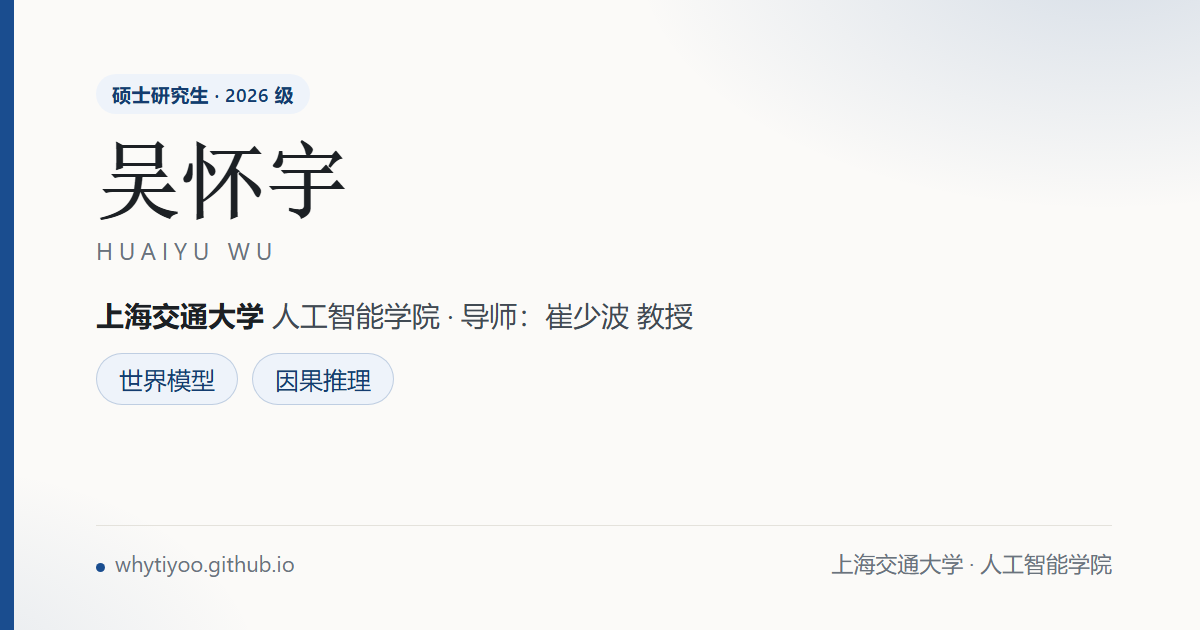
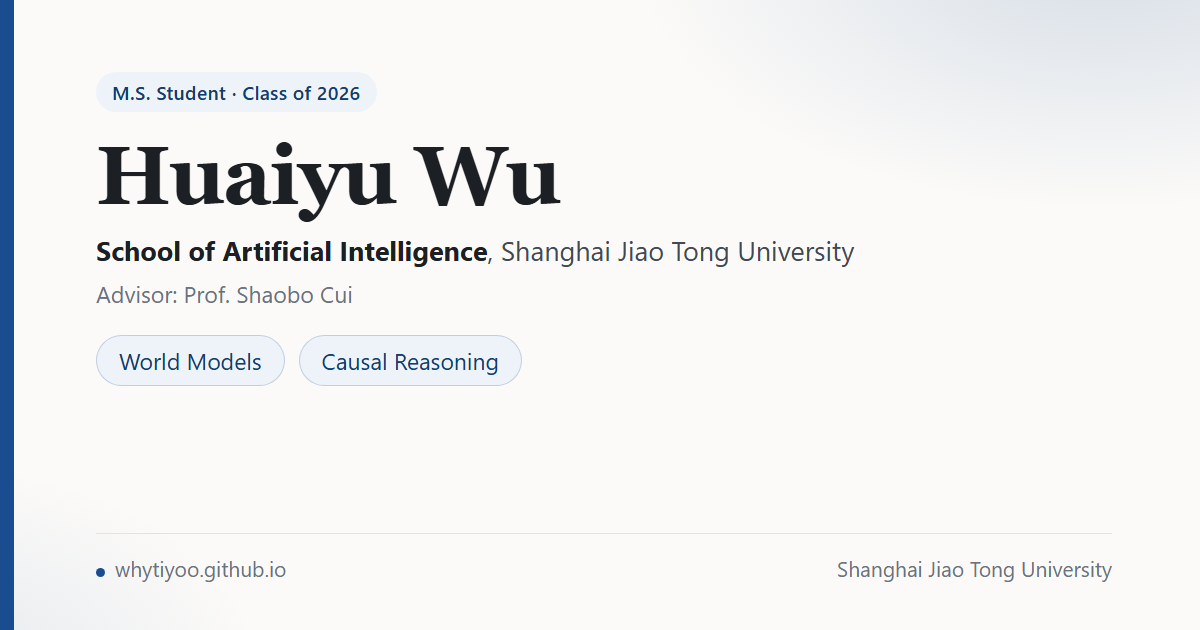
Convert all homepage content to English (lang=en, English meta/JSON-LD, English share cover)

diff --git a/index.html b/index.html
@@ -1,84 +1,80 @@
 <!DOCTYPE html>
-<html lang="zh-CN" data-theme="light">
+<html lang="en" data-theme="light">
 <head>
 <meta charset="utf-8">
 <meta name="viewport" content="width=device-width, initial-scale=1">
-<title>吴怀宇 · 个人主页 | 上海交通大学人工智能学院</title>
+<title>Huaiyu Wu · Homepage | School of Artificial Intelligence, SJTU</title>
 
-<meta name="description" content="吴怀宇，上海交通大学人工智能学院硕士研究生（2026 级），导师崔少波教授，研究方向为世界模型与因果推理。">
+<meta name="description" content="Huaiyu Wu is an M.S. student at the School of Artificial Intelligence, Shanghai Jiao Tong University, advised by Prof. Shaobo Cui. His research focuses on world models and causal reasoning.">
 <link rel="canonical" href="https://whytiyoo.github.io/">
 <meta property="og:type" content="profile">
-<meta property="og:title" content="吴怀宇 · 个人主页">
-<meta property="og:description" content="上海交通大学人工智能学院硕士研究生 · 世界模型与因果推理">
+<meta property="og:title" content="Huaiyu Wu · Homepage">
+<meta property="og:description" content="M.S. Student, School of Artificial Intelligence, Shanghai Jiao Tong University · World Models & Causal Reasoning">
 <meta property="og:url" content="https://whytiyoo.github.io/">
 <meta property="og:image" content="https://whytiyoo.github.io/assets/img/og-cover.png">
 <meta property="og:image:width" content="1200">
 <meta property="og:image:height" content="630">
-<meta property="og:locale" content="zh_CN">
+<meta property="og:locale" content="en_US">
 <meta name="twitter:card" content="summary_large_image">
-<meta name="twitter:title" content="吴怀宇 · 个人主页">
-<meta name="twitter:description" content="上海交通大学人工智能学院硕士研究生 · 世界模型与因果推理">
+<meta name="twitter:title" content="Huaiyu Wu · Homepage">
+<meta name="twitter:description" content="M.S. Student, School of Artificial Intelligence, Shanghai Jiao Tong University · World Models & Causal Reasoning">
 <meta name="twitter:image" content="https://whytiyoo.github.io/assets/img/og-cover.png">
 <meta name="theme-color" content="#ffffff">
 <link rel="icon" href="assets/img/favicon.svg" type="image/svg+xml">
 <link rel="stylesheet" href="assets/css/style.css">
 
-<!-- SEO：机器可读的个人信息（schema.org Person） -->
+<!-- SEO: machine-readable personal information (schema.org Person) -->
 <script type="application/ld+json">
 {
   "@context": "https://schema.org",
   "@type": "Person",
-  "name": "吴怀宇",
-  "alternateName": "Huaiyu Wu",
-  "jobTitle": "硕士研究生",
-  "affiliation": { "@type": "CollegeOrUniversity", "name": "上海交通大学人工智能学院" },
-  "alumniOf": { "@type": "CollegeOrUniversity", "name": "清华大学" },
+  "name": "Huaiyu Wu",
+  "jobTitle": "M.S. Student",
+  "affiliation": { "@type": "CollegeOrUniversity", "name": "School of Artificial Intelligence, Shanghai Jiao Tong University" },
+  "alumniOf": { "@type": "CollegeOrUniversity", "name": "Tsinghua University" },
   "url": "https://whytiyoo.github.io/",
   "image": "https://whytiyoo.github.io/assets/img/og-cover.png",
   "sameAs": [
     "https://github.com/whytiyoo"
   ],
-  "knowsAbout": ["世界模型", "因果推理"]
+  "knowsAbout": ["World Models", "Causal Reasoning"]
 }
 </script>
 </head>
 <body>
-<a class="skip-link" href="#main">跳到主要内容</a>
+<a class="skip-link" href="#main">Skip to main content</a>
 
 <!-- =========================================================================
-     内容维护说明
-     · 已填写真实信息：姓名、身份、导师、研究方向、教育经历、GitHub 链接。
-     · 按站点主人要求，**刻意不放**简历下载与邮箱：页面任何位置都没有 CV 按钮与 mailto 链接，
-       JSON-LD 里也没有 email 字段。日后想加回来，见本文件里对应位置的注释。
+     内容维护说明（注释保持中文，方便你自己维护；页面上不显示）
+     · 页面全部内容已改为英文（lang="en"）。
      · 仍需你替换的地方（全文搜索「待替换」）：
-         1. 头像   assets/img/avatar.svg  → 换成你的照片（正方形，建议 ≥ 400×400）
-         2. 「关于我」第二段：目前只写了研究方向，等你有在研工作/复现/实习时补一段
-     · 以下栏目目前没有内容，代码以注释形式保留在下方，有内容时取消注释，
-       并在顶部导航 .nav__menu 里同步加一行链接：
-         最新动态（News）、论文发表（Publications）、科研与开源项目（Projects）、
-         教学与服务（Teaching）、荣誉奖励（Awards）
-     · 社交链接：目前只有 GitHub。日后有 Google Scholar / ORCID 时，
+         1. Portrait   assets/img/avatar.svg → 换成你的照片（正方形，建议 ≥ 400×400）
+         2. About 第二段：目前只写了研究方向，等你有在研工作/复现/实习时补一段
+     · 按你的要求，页面**刻意不放**简历下载与邮箱（无 mailto、结构化数据里也没有 email）。
+     · 以下栏目的代码以注释形式保留，有内容时取消注释，并在顶部导航 .nav__menu 里加一行：
+         News / Publications / Projects / Teaching & Service / Awards
+     · 社交链接目前只有 GitHub。日后有 Google Scholar / ORCID 时，
        在 .hero__links 里加 <li>，并同步补进上面的 JSON-LD sameAs 数组。
      ========================================================================= -->
 
 <header class="site-header">
-  <nav class="nav" aria-label="主导航">
-    <a class="nav__brand" href="#top">吴怀宇</a>
+  <nav class="nav" aria-label="Main navigation">
+    <a class="nav__brand" href="#top">Huaiyu Wu</a>
     <button class="nav__toggle" type="button" aria-expanded="false" aria-controls="nav-menu">
-      <span class="sr-only">展开导航菜单</span>
+      <span class="sr-only">Open navigation menu</span>
       <svg viewBox="0 0 24 24" width="22" height="22" aria-hidden="true" fill="none" stroke="currentColor" stroke-width="1.8" stroke-linecap="round">
         <path d="M4 7h16M4 12h16M4 17h16"/>
       </svg>
     </button>
     <ul class="nav__menu" id="nav-menu">
-      <li><a href="#about">关于</a></li>
-      <li><a href="#education">教育</a></li>
-      <li><a href="#contact">联系</a></li>
-      <!-- 启用「最新动态」后加：<li><a href="#news">动态</a></li> -->
-      <!-- 启用「论文发表」后加：<li><a href="#publications">论文</a></li> -->
-      <!-- 启用「项目」后加：<li><a href="#projects">项目</a></li> -->
+      <li><a href="#about">About</a></li>
+      <li><a href="#education">Education</a></li>
+      <li><a href="#contact">Contact</a></li>
+      <!-- 启用「News」后加：<li><a href="#news">News</a></li> -->
+      <!-- 启用「Publications」后加：<li><a href="#publications">Publications</a></li> -->
+      <!-- 启用「Projects」后加：<li><a href="#projects">Projects</a></li> -->
       <li>
-        <button class="theme-toggle" type="button" id="theme-toggle" aria-label="切换深色模式">
+        <button class="theme-toggle" type="button" id="theme-toggle" aria-label="Toggle dark mode">
           <svg class="theme-toggle__sun" viewBox="0 0 24 24" width="18" height="18" aria-hidden="true" fill="none" stroke="currentColor" stroke-width="1.8" stroke-linecap="round">
             <circle cx="12" cy="12" r="4"/><path d="M12 2v2M12 20v2M2 12h2M20 12h2M5 5l1.5 1.5M17.5 17.5L19 19M19 5l-1.5 1.5M6.5 17.5L5 19"/>
           </svg>
@@ -93,65 +89,70 @@
 
 <main id="main">
 
-  <!-- ============================ 首屏 ============================ -->
+  <!-- ============================ Hero ============================ -->
   <section class="hero" id="top" aria-labelledby="hero-name">
-    <!-- ✏ 待替换：换成你的照片（建议正方形 ≥ 400×400），改这里 src 即可 -->
-    <img class="hero__avatar" src="assets/img/avatar.svg" alt="吴怀宇的头像" width="176" height="176">
+    <!-- ✏ 待替换：replace with your photo (square, ≥ 400×400); just change the src -->
+    <img class="hero__avatar" src="assets/img/avatar.svg" alt="Portrait of Huaiyu Wu" width="176" height="176">
     <div class="hero__body">
-      <h1 class="hero__name" id="hero-name">吴怀宇</h1>
-      <p class="hero__name-en">Huaiyu Wu</p>
+      <h1 class="hero__name" id="hero-name">Huaiyu Wu</h1>
       <p class="hero__role">
-        硕士研究生 · 上海交通大学人工智能学院
-        <span class="hero__role-note">2026 级 · 导师：崔少波 教授</span>
+        M.S. Student · School of Artificial Intelligence, Shanghai Jiao Tong University
+        <span class="hero__role-note">Class of 2026 · Advisor: Prof. Shaobo Cui</span>
       </p>
       <p class="hero__tagline">
-        研究<strong>世界模型</strong>与<strong>因果推理</strong>：
-        关注模型如何学习环境的动态与预测，以及如何从干预与反事实中识别因果结构。
+        I work on <strong>world models</strong> and <strong>causal reasoning</strong>:
+        how a model learns the dynamics of an environment to make useful predictions,
+        and how interventions and counterfactuals reveal causal structure beyond correlation.
       </p>
-      <ul class="hero__links" aria-label="常用链接">
+      <ul class="hero__links" aria-label="Primary links">
         <li><a href="https://github.com/whytiyoo">GitHub</a></li>
-        <!-- 有 Google Scholar / ORCID 后按同样格式加一行，例如：
+        <!-- Add Google Scholar / ORCID the same way once available, e.g.:
              <li><a href="https://scholar.google.com/citations?user=XXXXXXXX">Google Scholar</a></li> -->
       </ul>
     </div>
   </section>
 
-  <!-- ============================ 关于我 ============================ -->
+  <!-- ============================ About ============================ -->
   <section class="section" id="about" aria-labelledby="about-title">
-    <h2 class="section__title" id="about-title">关于我</h2>
+    <h2 class="section__title" id="about-title">About</h2>
 
     <p>
-      我是<strong>吴怀宇</strong>，上海交通大学人工智能学院 2026 级硕士研究生，导师为
-      <strong>崔少波 教授</strong>。本科毕业于清华大学，获数理基础科学专业与工程物理专业
-      <strong>双学位</strong>。目前的研究兴趣集中在<strong>世界模型</strong>与<strong>因果推理</strong>。
+      I am <strong>Huaiyu Wu</strong>, an M.S. student (Class of 2026) at the
+      <strong>School of Artificial Intelligence, Shanghai Jiao Tong University</strong>,
+      advised by <strong>Prof. Shaobo Cui</strong>. I received my bachelor's degrees from
+      Tsinghua University, where I completed a dual-degree program in Mathematical &amp;
+      Physical Basic Sciences and Engineering Physics. My research interests centre on
+      <strong>world models</strong> and <strong>causal reasoning</strong>.
     </p>
     <p>
-      我关心两类问题：一是模型如何从观测中学习环境的动态结构，并对未来做出可用的预测；
-      二是如何借助干预与反事实，让模型学到的不只是相关性，而是可迁移、可解释的因果结构。
-      欢迎就相关方向交流与合作。
+      I am drawn to two questions. First, how a model can learn the dynamics of an
+      environment from observations and turn them into predictions that are actually
+      useful. Second, how interventions and counterfactuals can move a model beyond
+      correlation toward causal structure that is transferable and interpretable.
+      I am always happy to discuss and collaborate.
     </p>
-    <!-- ✏ 待替换：第二段目前只写了研究方向。等你有了在研工作、复现结果、课程项目或实习经历，
+    <!-- ✏ 待替换：第二段目前只写了研究方向。等你有在研工作、复现结果、课程项目或实习经历，
          补一段「做过什么 + 结果」，例如：
-         <p>目前在做的方向包括：……（一句话说明问题与思路）；已完成的工作有：……。</p> -->
+         <p>Currently I am working on … ; I have also reproduced … .</p> -->
 
-    <h3 class="subhead">研究方向</h3>
+    <h3 class="subhead">Research Interests</h3>
     <ul class="tag-list">
-      <li>世界模型</li>
-      <li>因果推理</li>
+      <li>World Models</li>
+      <li>Causal Reasoning</li>
     </ul>
   </section>
 
-  <!-- ============================ 教育经历 ============================ -->
+  <!-- ============================ Education ============================ -->
   <section class="section" id="education" aria-labelledby="education-title">
-    <h2 class="section__title" id="education-title">教育经历</h2>
+    <h2 class="section__title" id="education-title">Education</h2>
     <ul class="timeline">
       <li class="timeline__item">
-        <span class="timeline__period">2026 – 至今</span>
-        <span class="timeline__text"><strong>上海交通大学</strong> · 人工智能学院 · 硕士研究生（导师：崔少波 教授）</span>
+        <span class="timeline__period">2026 – Present</span>
+        <span class="timeline__text"><strong>Shanghai Jiao Tong University</strong> · School of Artificial Intelligence · M.S. Student (Advisor: Prof. Shaobo Cui)</span>
       </li>
       <li class="timeline__item">
         <span class="timeline__period">2022 – 2026</span>
-        <span class="timeline__text"><strong>清华大学</strong> · 数理基础科学 + 工程物理 · 双学位</span>
+        <span class="timeline__text"><strong>Tsinghua University</strong> · Dual B.S. in Mathematical &amp; Physical Basic Sciences and Engineering Physics</span>
       </li>
     </ul>
   </section>
@@ -161,95 +162,96 @@
        有内容时把对应区块取消注释，并在顶部导航里加一行链接即可。
 
   <section class="section" id="news" aria-labelledby="news-title">
-    <h2 class="section__title" id="news-title">最新动态</h2>
+    <h2 class="section__title" id="news-title">News</h2>
     <ul class="news">
       <li class="news__item">
         <span class="news__date">2026.09</span>
-        <span class="news__text">入学上海交通大学人工智能学院，开始硕士研究生阶段学习。</span>
+        <span class="news__text">Started my M.S. at the School of Artificial Intelligence, Shanghai Jiao Tong University.</span>
       </li>
     </ul>
   </section>
 
   <section class="section" id="publications" aria-labelledby="publications-title">
-    <h2 class="section__title" id="publications-title">论文发表</h2>
-    <p class="section__lead"><strong class="me">加粗下划线</strong>表示本人</p>
-    <div class="filter" role="group" aria-label="按类型筛选论文">
-      <button class="chip is-active" type="button" data-filter="all">全部</button>
-      <button class="chip" type="button" data-filter="conference">会议</button>
-      <button class="chip" type="button" data-filter="journal">期刊</button>
-      <button class="chip" type="button" data-filter="preprint">预印本</button>
+    <h2 class="section__title" id="publications-title">Publications</h2>
+    <p class="section__lead"><strong class="me">Bold + underlined</strong> denotes the author is me</p>
+    <div class="filter" role="group" aria-label="Filter publications by type">
+      <button class="chip is-active" type="button" data-filter="all">All</button>
+      <button class="chip" type="button" data-filter="conference">Conference</button>
+      <button class="chip" type="button" data-filter="journal">Journal</button>
+      <button class="chip" type="button" data-filter="preprint">Preprint</button>
     </div>
     <ol class="pub-list" id="pub-list">
       <li class="pub" data-type="conference">
         <div class="pub__body">
-          <h3 class="pub__title"><a href="https://example.com">论文标题</a></h3>
-          <p class="pub__authors"><strong class="me">吴怀宇</strong>, 崔少波</p>
-          <p class="pub__venue"><em>会议或期刊全称</em>（年份）</p>
+          <h3 class="pub__title"><a href="https://example.com">Paper title</a></h3>
+          <p class="pub__authors"><strong class="me">Huaiyu Wu</strong>, Shaobo Cui</p>
+          <p class="pub__venue"><em>Full name of the venue</em> (year)</p>
           <p class="pub__links">
             <a href="https://example.com">PDF</a>
             <button class="link-btn" type="button" data-bibtex-toggle>BibTeX</button>
-            <button class="link-btn" type="button" data-bibtex-copy>复制引用</button>
+            <button class="link-btn" type="button" data-bibtex-copy>Copy citation</button>
           </p>
           <pre class="pub__bibtex" hidden>@inproceedings{wu2026example,
-  title     = {论文标题},
+  title     = {Paper title},
   author    = {Wu, Huaiyu and Cui, Shaobo},
-  booktitle = {会议名称},
+  booktitle = {Venue},
   year      = {2026}
 }</pre>
         </div>
       </li>
     </ol>
-    <p class="empty-state" id="pub-empty" hidden>没有符合当前筛选条件的论文。</p>
+    <p class="empty-state" id="pub-empty" hidden>No publications match the current filter.</p>
   </section>
 
   <section class="section" id="projects" aria-labelledby="projects-title">
-    <h2 class="section__title" id="projects-title">科研与开源项目</h2>
+    <h2 class="section__title" id="projects-title">Research &amp; Open-source Projects</h2>
     <ul class="card-list">
       <li class="card">
-        <h3 class="card__title">项目名称</h3>
-        <p class="card__meta">你的角色 · 起止时间 · 技术栈</p>
-        <p class="card__text">做什么 + 你负责什么 + 结果（有数字就写数字）。</p>
-        <p class="card__links"><a href="https://github.com/whytiyoo">代码仓库</a></p>
+        <h3 class="card__title">Project name</h3>
+        <p class="card__meta">Your role · Duration · Tech stack</p>
+        <p class="card__text">What it does + what you did + the result (add numbers if you have them).</p>
+        <p class="card__links"><a href="https://github.com/whytiyoo">Repository</a></p>
       </li>
     </ul>
   </section>
 
   <section class="section" id="teaching" aria-labelledby="teaching-title">
-    <h2 class="section__title" id="teaching-title">教学与服务</h2>
+    <h2 class="section__title" id="teaching-title">Teaching &amp; Service</h2>
     <ul class="plain-list">
-      <li><strong>助教</strong> ·《课程名》 · 学期（院系）</li>
-      <li><strong>审稿人</strong> · 会议或期刊名</li>
+      <li><strong>Teaching Assistant</strong> · Course name · Term (Department)</li>
+      <li><strong>Reviewer</strong> · Conference or journal</li>
     </ul>
   </section>
 
   <section class="section" id="awards" aria-labelledby="awards-title">
-    <h2 class="section__title" id="awards-title">荣誉奖励</h2>
+    <h2 class="section__title" id="awards-title">Awards</h2>
     <ul class="award-list">
-      <li><span class="award-list__year">2026</span> 奖项名称（颁发单位）</li>
+      <li><span class="award-list__year">2026</span> Award name (Awarding body)</li>
     </ul>
   </section>
 
   ========================================================================= -->
 
-  <!-- ============================ 联系 ============================ -->
+  <!-- ============================ Contact ============================ -->
   <section class="section" id="contact" aria-labelledby="contact-title">
-    <h2 class="section__title" id="contact-title">联系我</h2>
+    <h2 class="section__title" id="contact-title">Contact</h2>
     <p>
-      欢迎就世界模型、因果推理及相关方向与我交流，可以通过下面的方式找到我。
+      I am happy to connect about world models, causal reasoning and related topics.
+      The best way to reach me is via GitHub.
     </p>
     <ul class="contact-list">
       <li><span class="contact-list__label">GitHub</span> <a href="https://github.com/whytiyoo">github.com/whytiyoo</a></li>
-      <li><span class="contact-list__label">个人主页</span> <a href="https://whytiyoo.github.io/">https://whytiyoo.github.io/</a></li>
+      <li><span class="contact-list__label">Homepage</span> <a href="https://whytiyoo.github.io/">https://whytiyoo.github.io/</a></li>
       <!-- ✏ 可选：日后有 Google Scholar / ORCID / 办公室地址时，按同样格式加一行
-           <li><span class="contact-list__label">Google Scholar</span> <a href="https://scholar.google.com/citations?user=XXXXXXXX">Google Scholar 主页</a></li> -->
+           <li><span class="contact-list__label">Google Scholar</span> <a href="https://scholar.google.com/citations?user=XXXXXXXX">Google Scholar profile</a></li> -->
     </ul>
   </section>
 
 </main>
 
 <footer class="site-footer">
-  <p>© 2026 吴怀宇 · 上海交通大学人工智能学院</p>
-  <p class="site-footer__meta">最后更新：2026 年 10 月 · 使用原生 HTML / CSS / JavaScript 构建</p>
+  <p>© 2026 Huaiyu Wu · School of Artificial Intelligence, Shanghai Jiao Tong University</p>
+  <p class="site-footer__meta">Last updated: October 2026 · Built with plain HTML, CSS and JavaScript</p>
 </footer>
 
 <script src="assets/js/main.js"></script>

diff --git a/assets/js/main.js b/assets/js/main.js
@@ -25,7 +25,7 @@
     root.setAttribute('data-theme', theme);
     if (themeMeta) themeMeta.setAttribute('content', theme === 'dark' ? '#14171b' : '#ffffff');
     if (themeToggle) {
-      themeToggle.setAttribute('aria-label', theme === 'dark' ? '切换到浅色模式' : '切换到深色模式');
+      themeToggle.setAttribute('aria-label', theme === 'dark' ? 'Switch to light mode' : 'Switch to dark mode');
       themeToggle.setAttribute('aria-pressed', theme === 'dark' ? 'true' : 'false');
     }
     if (persist) {
@@ -196,7 +196,7 @@
       if (pre) {
         pre.hidden = !pre.hidden;
         toggle.setAttribute('aria-expanded', pre.hidden ? 'false' : 'true');
-        toggle.textContent = pre.hidden ? 'BibTeX' : '隐藏 BibTeX';
+        toggle.textContent = pre.hidden ? 'BibTeX' : 'Hide BibTeX';
       }
       return;
     }
@@ -208,9 +208,9 @@
       if (!source) return;
       var label = copyBtn.textContent;
       copyText(source.textContent.trim()).then(function () {
-        flash(copyBtn, '已复制 ✓', label, 'is-copied');
+        flash(copyBtn, 'Copied ✓', label, 'is-copied');
       }).catch(function () {
-        flash(copyBtn, '请手动复制', label, 'is-copied');
+        flash(copyBtn, 'Copy failed — select manually', label, 'is-copied');
         source.hidden = false;
       });
     }

diff --git a/assets/css/style.css b/assets/css/style.css
@@ -310,7 +310,7 @@ html[data-theme="dark"] .theme-toggle__moon { display: block; }
 .hero__name {
   font-family: var(--font-serif);
   font-size: clamp(2rem, 4.4vw, 2.6rem);
-  margin: 0 0 0.1rem;
+  margin: 0 0 0.85rem;
   letter-spacing: -0.015em;
 }
 .hero__name-en {
